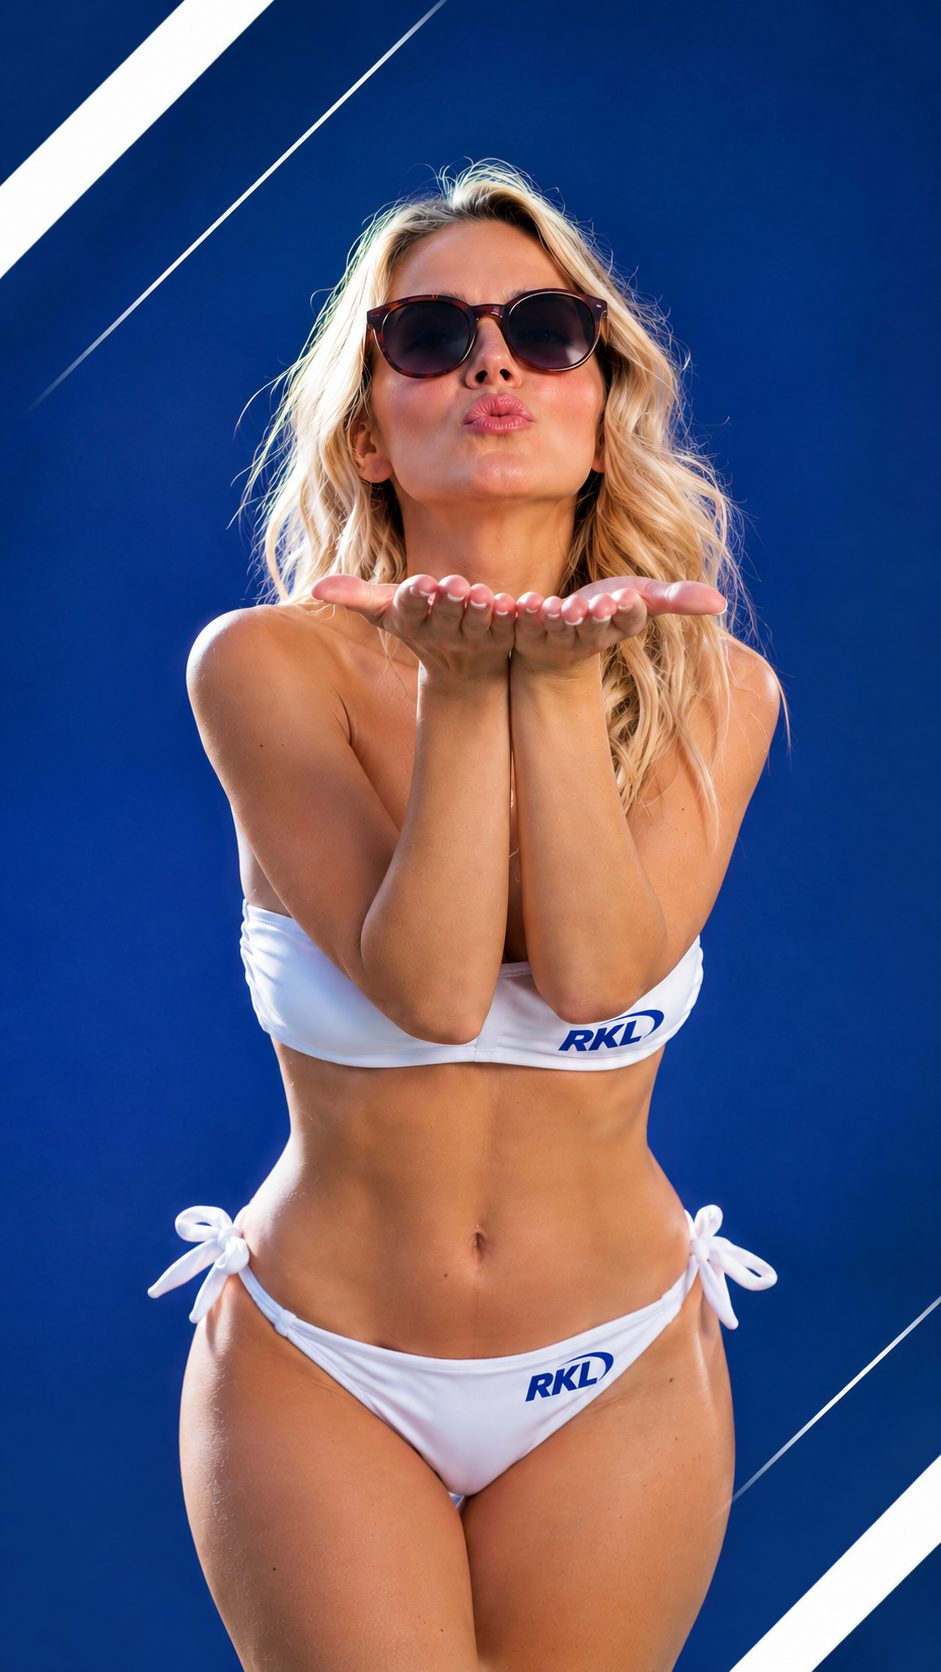
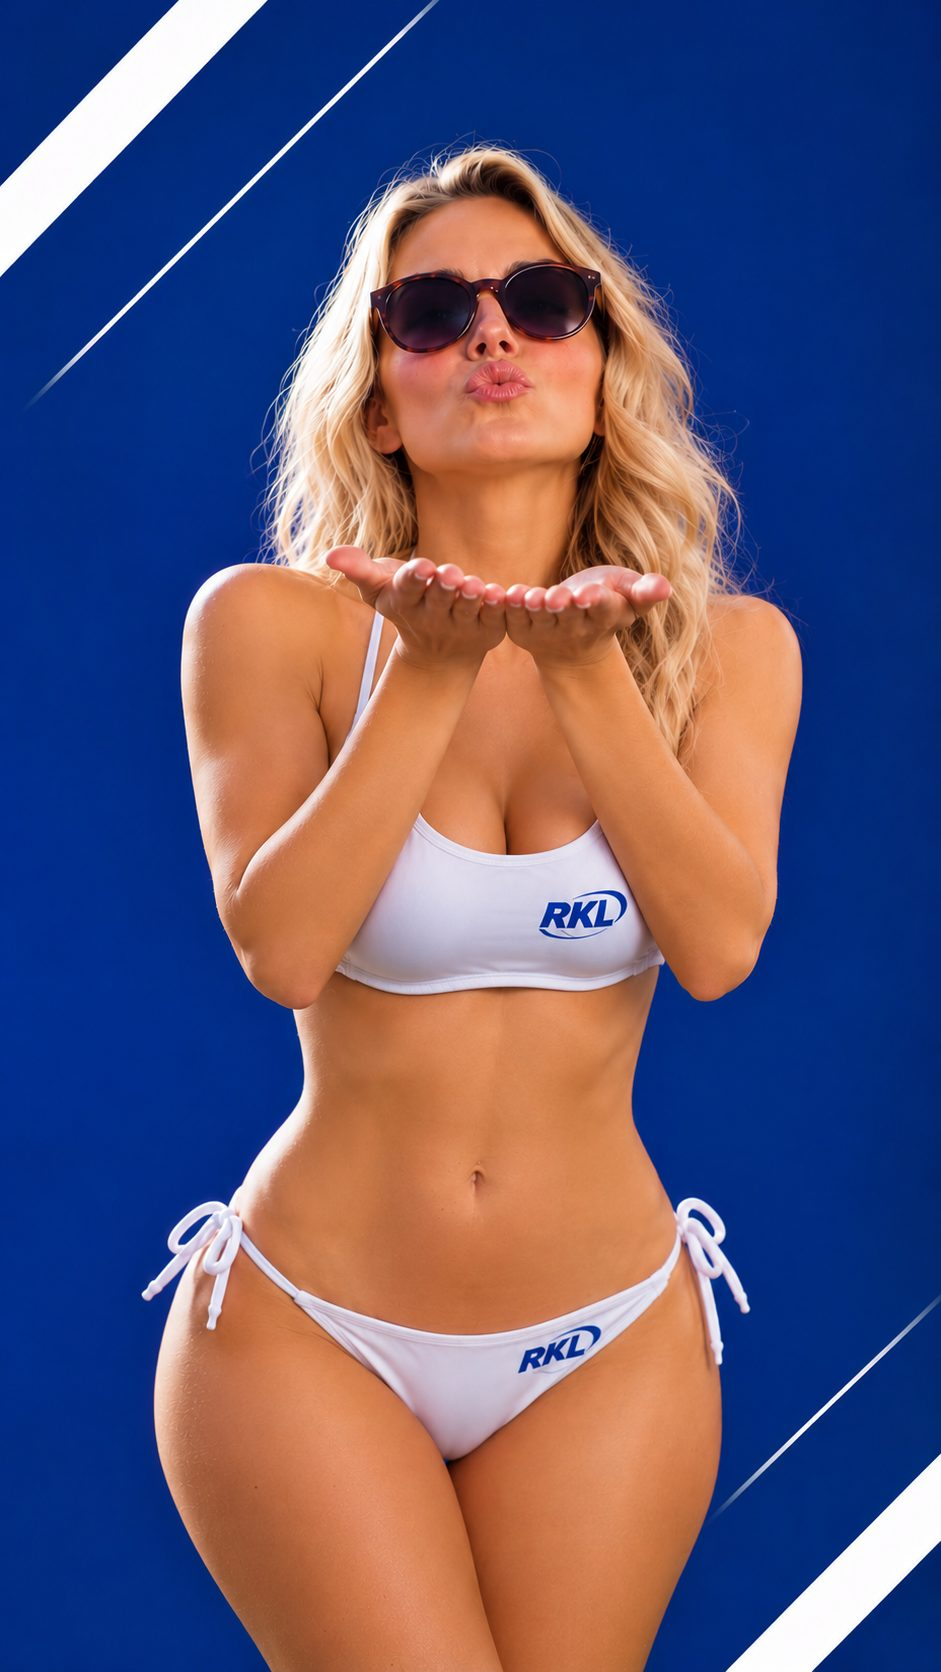
Poděkování: nová fotka
Claude-Session: https://claude.ai/code/session_012nRAR9BTZ2kxqZ5oFR67BV

diff --git a/ridic/index.html b/ridic/index.html
@@ -449,7 +449,7 @@
   <button id="logout" class="hidden" type="button">Odhlásit</button>
 </header>
 
-<div id="thx" class="thx" aria-hidden="true"><img src="/ridic/dekuji.jpg?v=2" alt=""><b>Děkujeme, <i>tým RKL</i></b></div>
+<div id="thx" class="thx" aria-hidden="true"><img src="/ridic/dekuji.jpg?v=3" alt=""><b>Děkujeme, <i>tým RKL</i></b></div>
 <nav id="tabs" class="tabs hidden" aria-label="Menu řidiče">
   <button type="button" id="tabNew">Nová přeprava</button>
   <button type="button" id="tabHist">Historie mých jízd</button>
